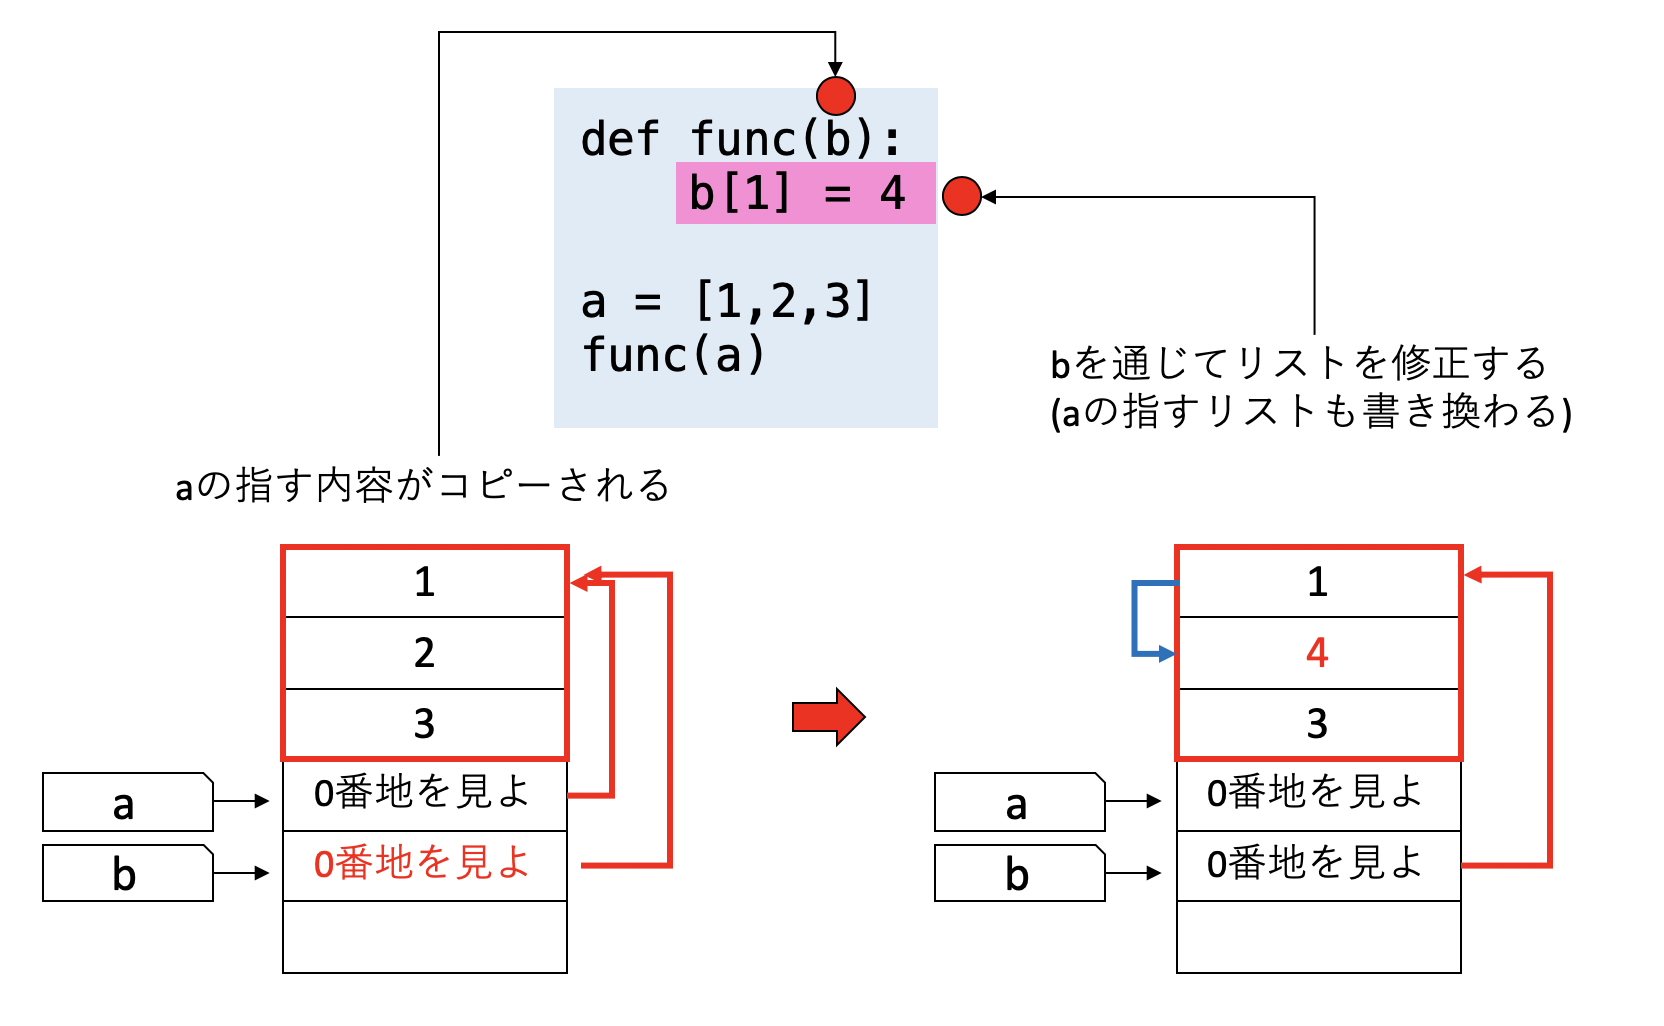
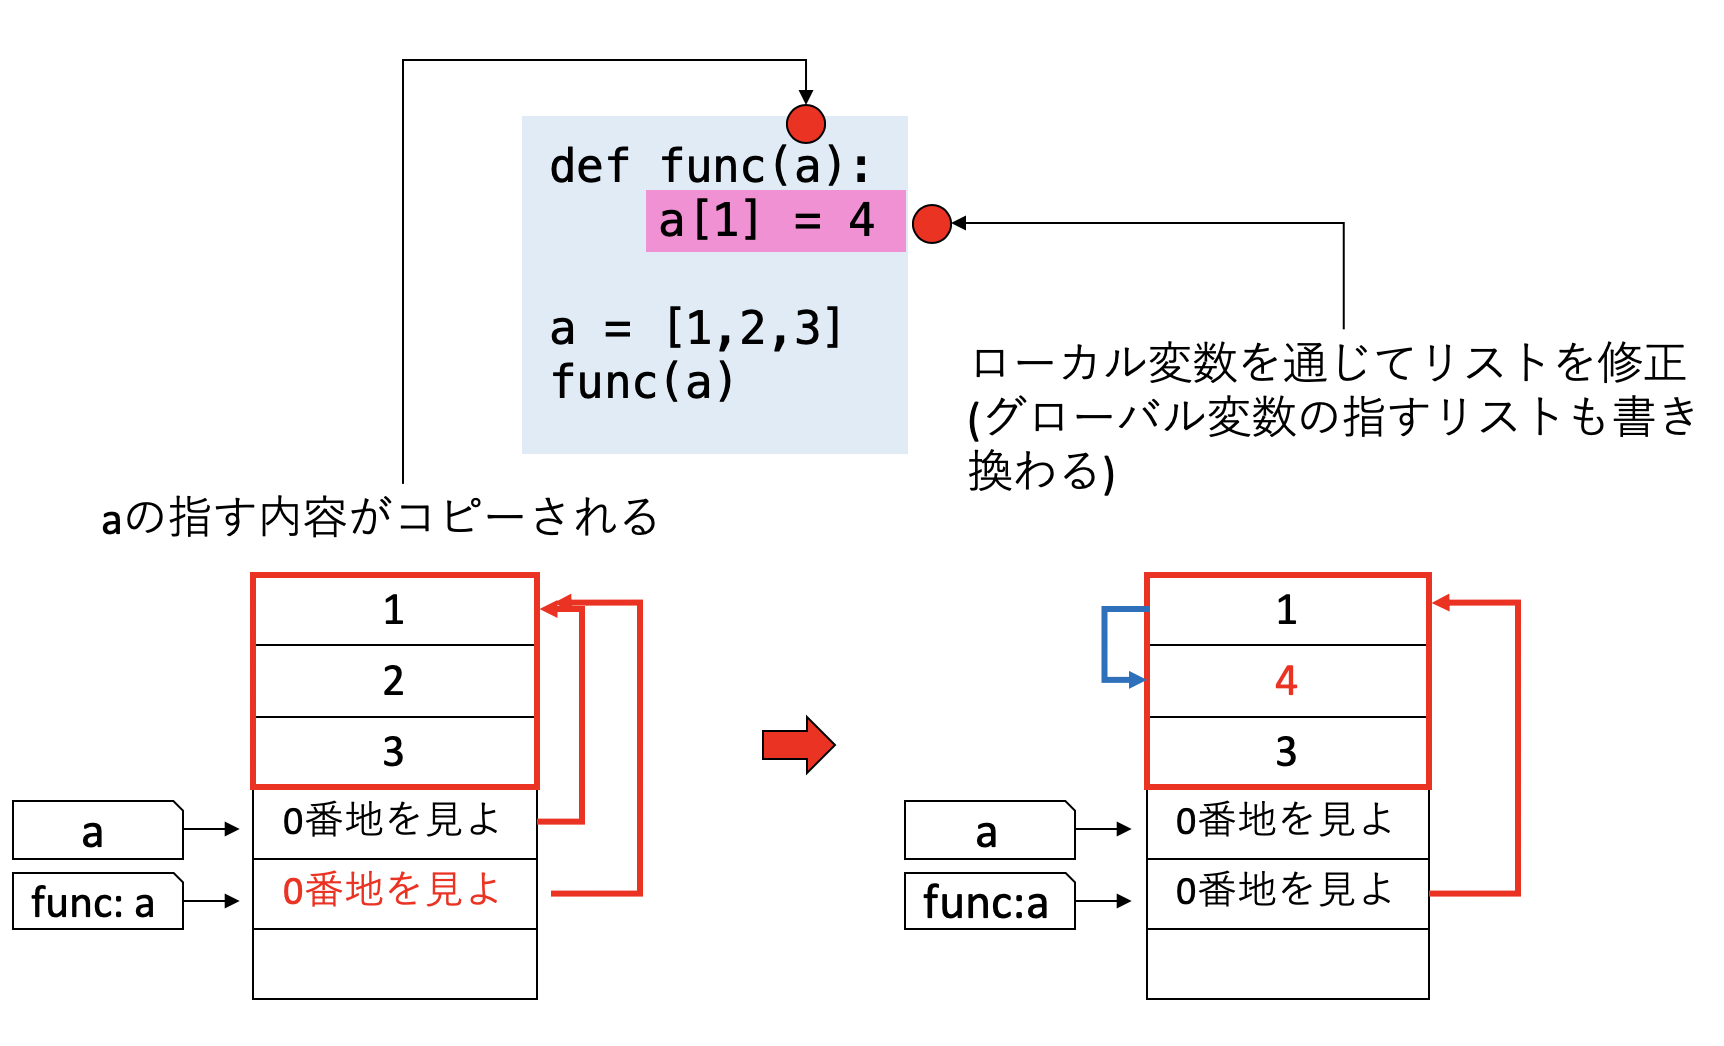
updates figures

diff --git a/list/README.md b/list/README.md
@@ -254,11 +254,13 @@ b = 20
 
 という操作が行われている。
 
-さて、`b = a`として他の変数にリストをコピーすると、整数等の場合と同様に、「ラベルの指している場所の値をコピーして、そこにラベルを貼る」という操作が行われる。この時コピーされるのは「リストの先頭の場所」という情報であるから、`a`と`b`のラベルは同じリストを指すことになる。したがって、`b`を通じてリストを修正すると、`a`が指すリストも修正されることになる。
+次に、リストのコピーを見てみよう。`[1, 2, 3]`というリストを指す変数`a`を`b`にコピーし、その後`b[1] = 4`と、リストを修正する操作を考える。すると、実際にはコピー元の`a`が指すリストも修正されている。この操作のメモリ上での表現を見てみよう。
+
+まず、`b = a`として他の変数にリストをコピーすると、整数等の場合と同様に、「ラベルの指している場所の値をコピーして、そこにラベルを貼る」という操作が行われる。この時コピーされるのは「リストの先頭の場所」という情報であるから、`a`と`b`のラベルは同じリストを指すことになる。したがって、`b`を通じてリストを修正すると、`a`が指すリストも修正されることになる。
 
 ![リストのコピー](fig/copy_list.png)
 
-また、同じリストを指している変数`a`、`b`がある時、`b`に異なるリストを代入すると、それぞれ別のリストを指す。
+さて、同じリストを指している変数`a`、`b`がある時、`b`に異なるリストを代入する。
 
 ```py
 a = [1, 2, 3]
@@ -266,12 +268,13 @@ b = a
 b = [4, 5, 6]
 ```
 
-これは`b=a`を実行した時点では`a`と`b`は同じリストを指しているが、`b = [4, 5, 6]`を実行すると、まずメモリ上に`[4, 5, 6]`を表現するデータが作られ、その後`b`の指す内容が新しく作られたリストの先頭データとなるため、`a`と`b`が無関係となるためである。
+以後、`a`と`b`は異なるリストを指すようになるため、`b`を修正しても`a`は影響を受けなくなる。
+
+これは`b = a`を実行した時点では`a`と`b`は同じリストを指しているが、`b = [4, 5, 6]`を実行すると、まずメモリ上に`[4, 5, 6]`を表現するデータが作られ、その後`b`の指す内容が新しく作られたリストの先頭の場所となるため、`a`と`b`が無関係となるためである。
 
 ![コピー後のリストの代入](fig/copy_list2.png)
 
-リストを指す変数は、リストそのものではなく、リストの先頭の場所を記録した情報を指している。
-このように、値そのものではなく、「この場所を見よ」というような情報を「参照(reference) 」と呼ぶ。
+リストを指す変数は、リストそのものではなく、リストの先頭の場所を記録した情報を指している。このように、値そのものではなく、「この場所を見よ」というような情報を **参照(reference)**  と呼ぶ。
 
 ## 参照の値渡しについて
 
@@ -299,8 +302,8 @@ print(a) #=> 1
 次に、関数の引数としてリストを渡してみよう。リストを表す変数は、リストの「先頭」を指していることは既に説明した。それ以外は先程と同じで、関数の引数は、値がコピーされて渡される。
 
 ```py
-def func(b):
-    b[1] = 4
+def func(a):
+    a[1] = 4
 
 a = [1,2,3]
 func(a)
